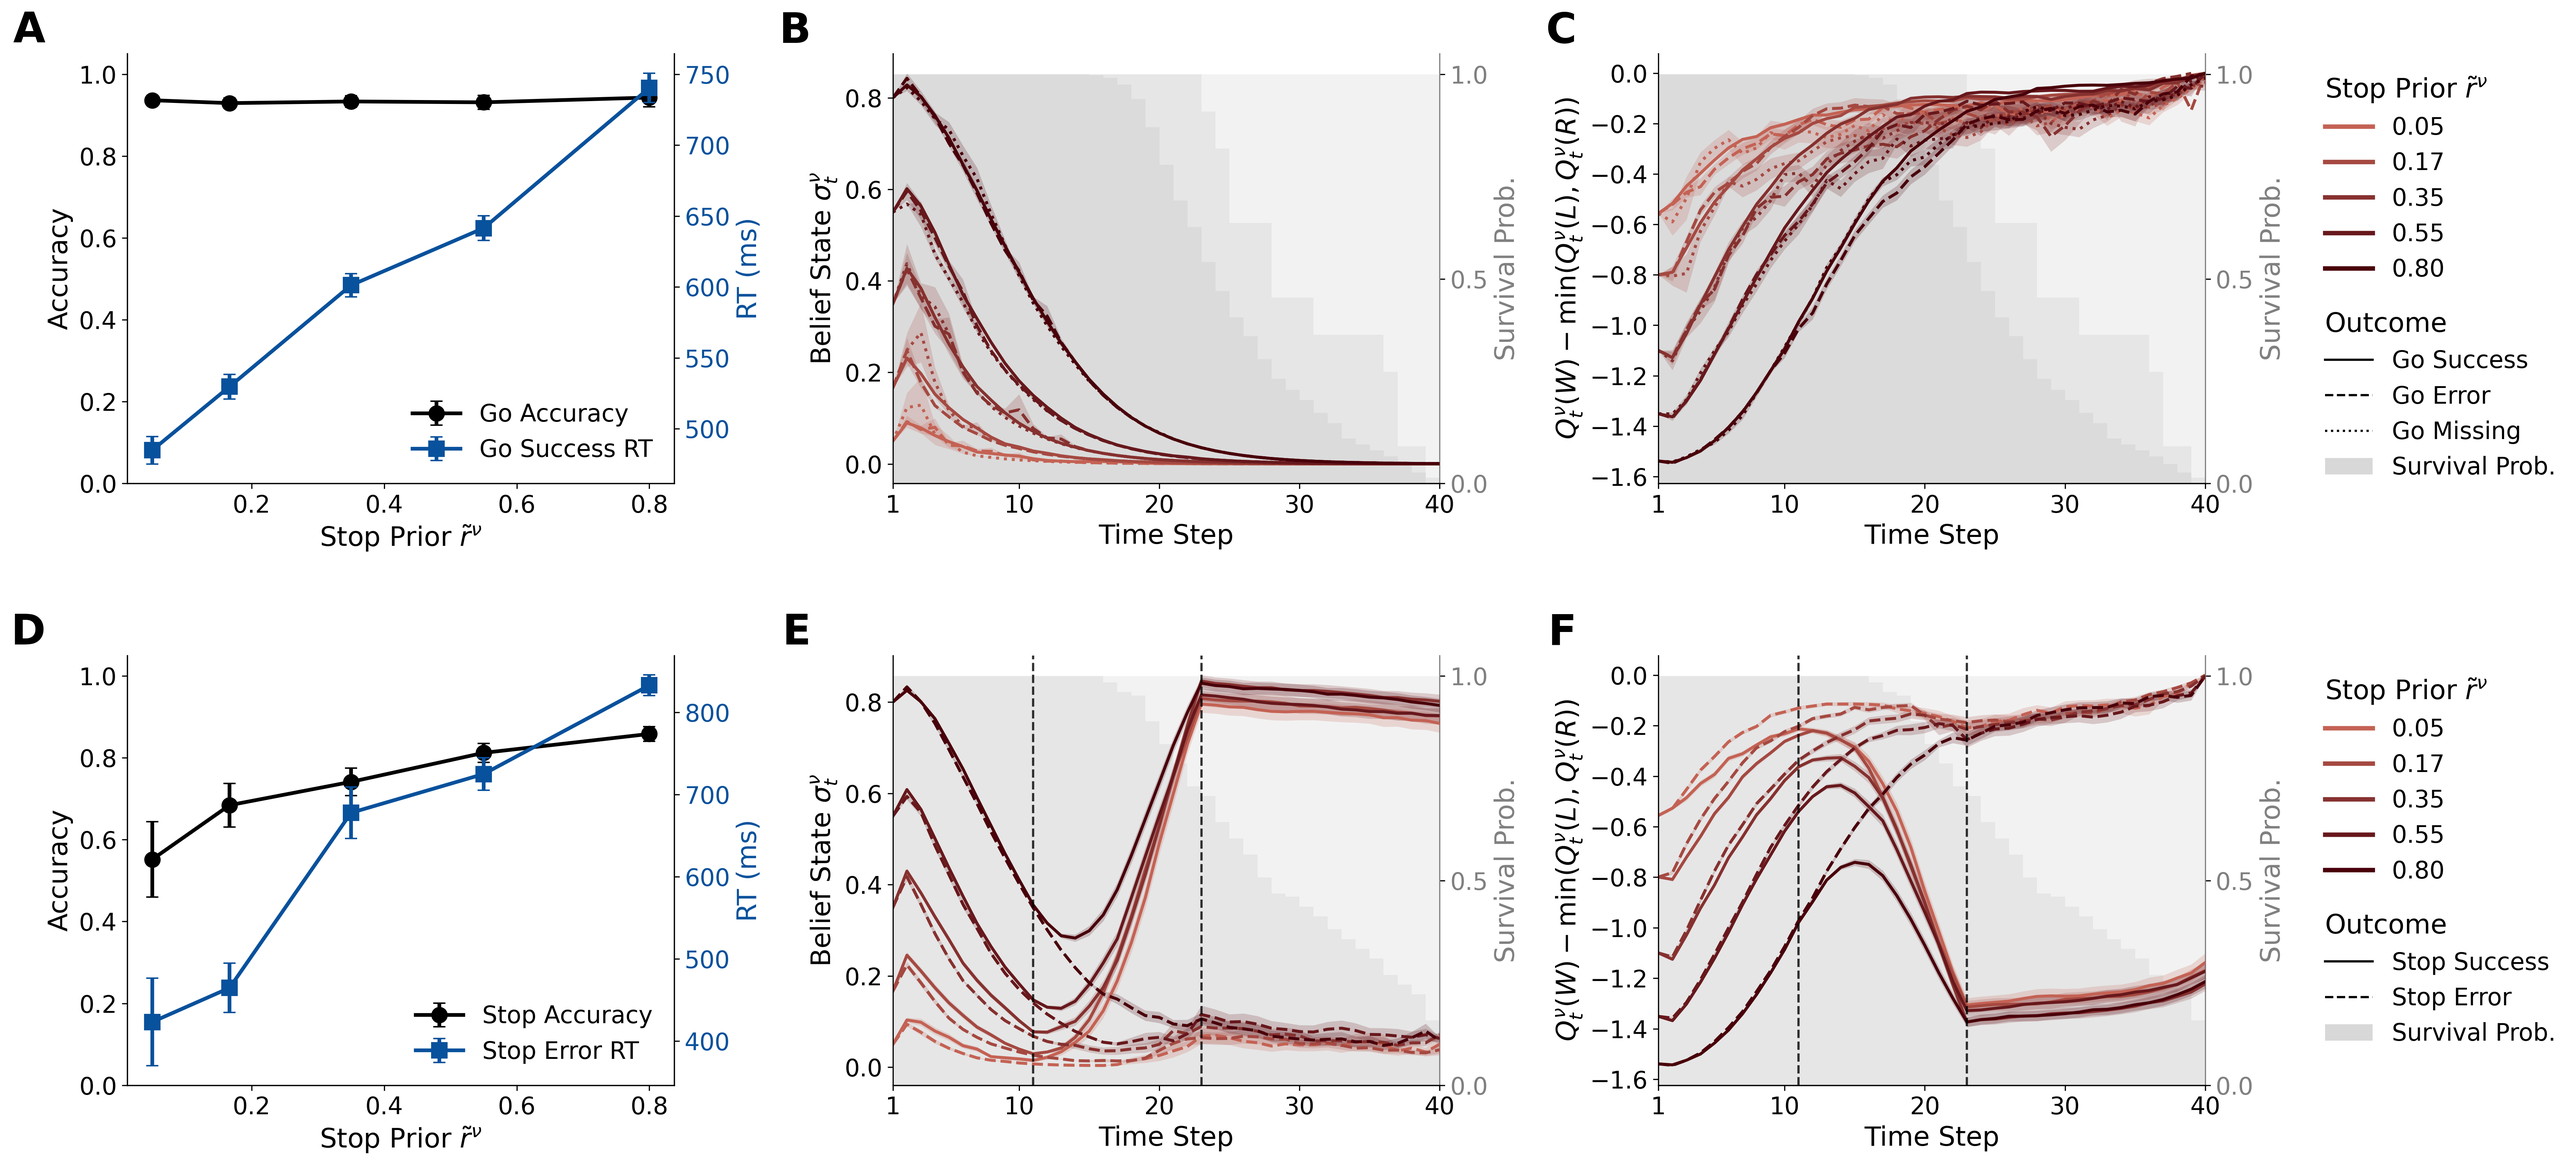
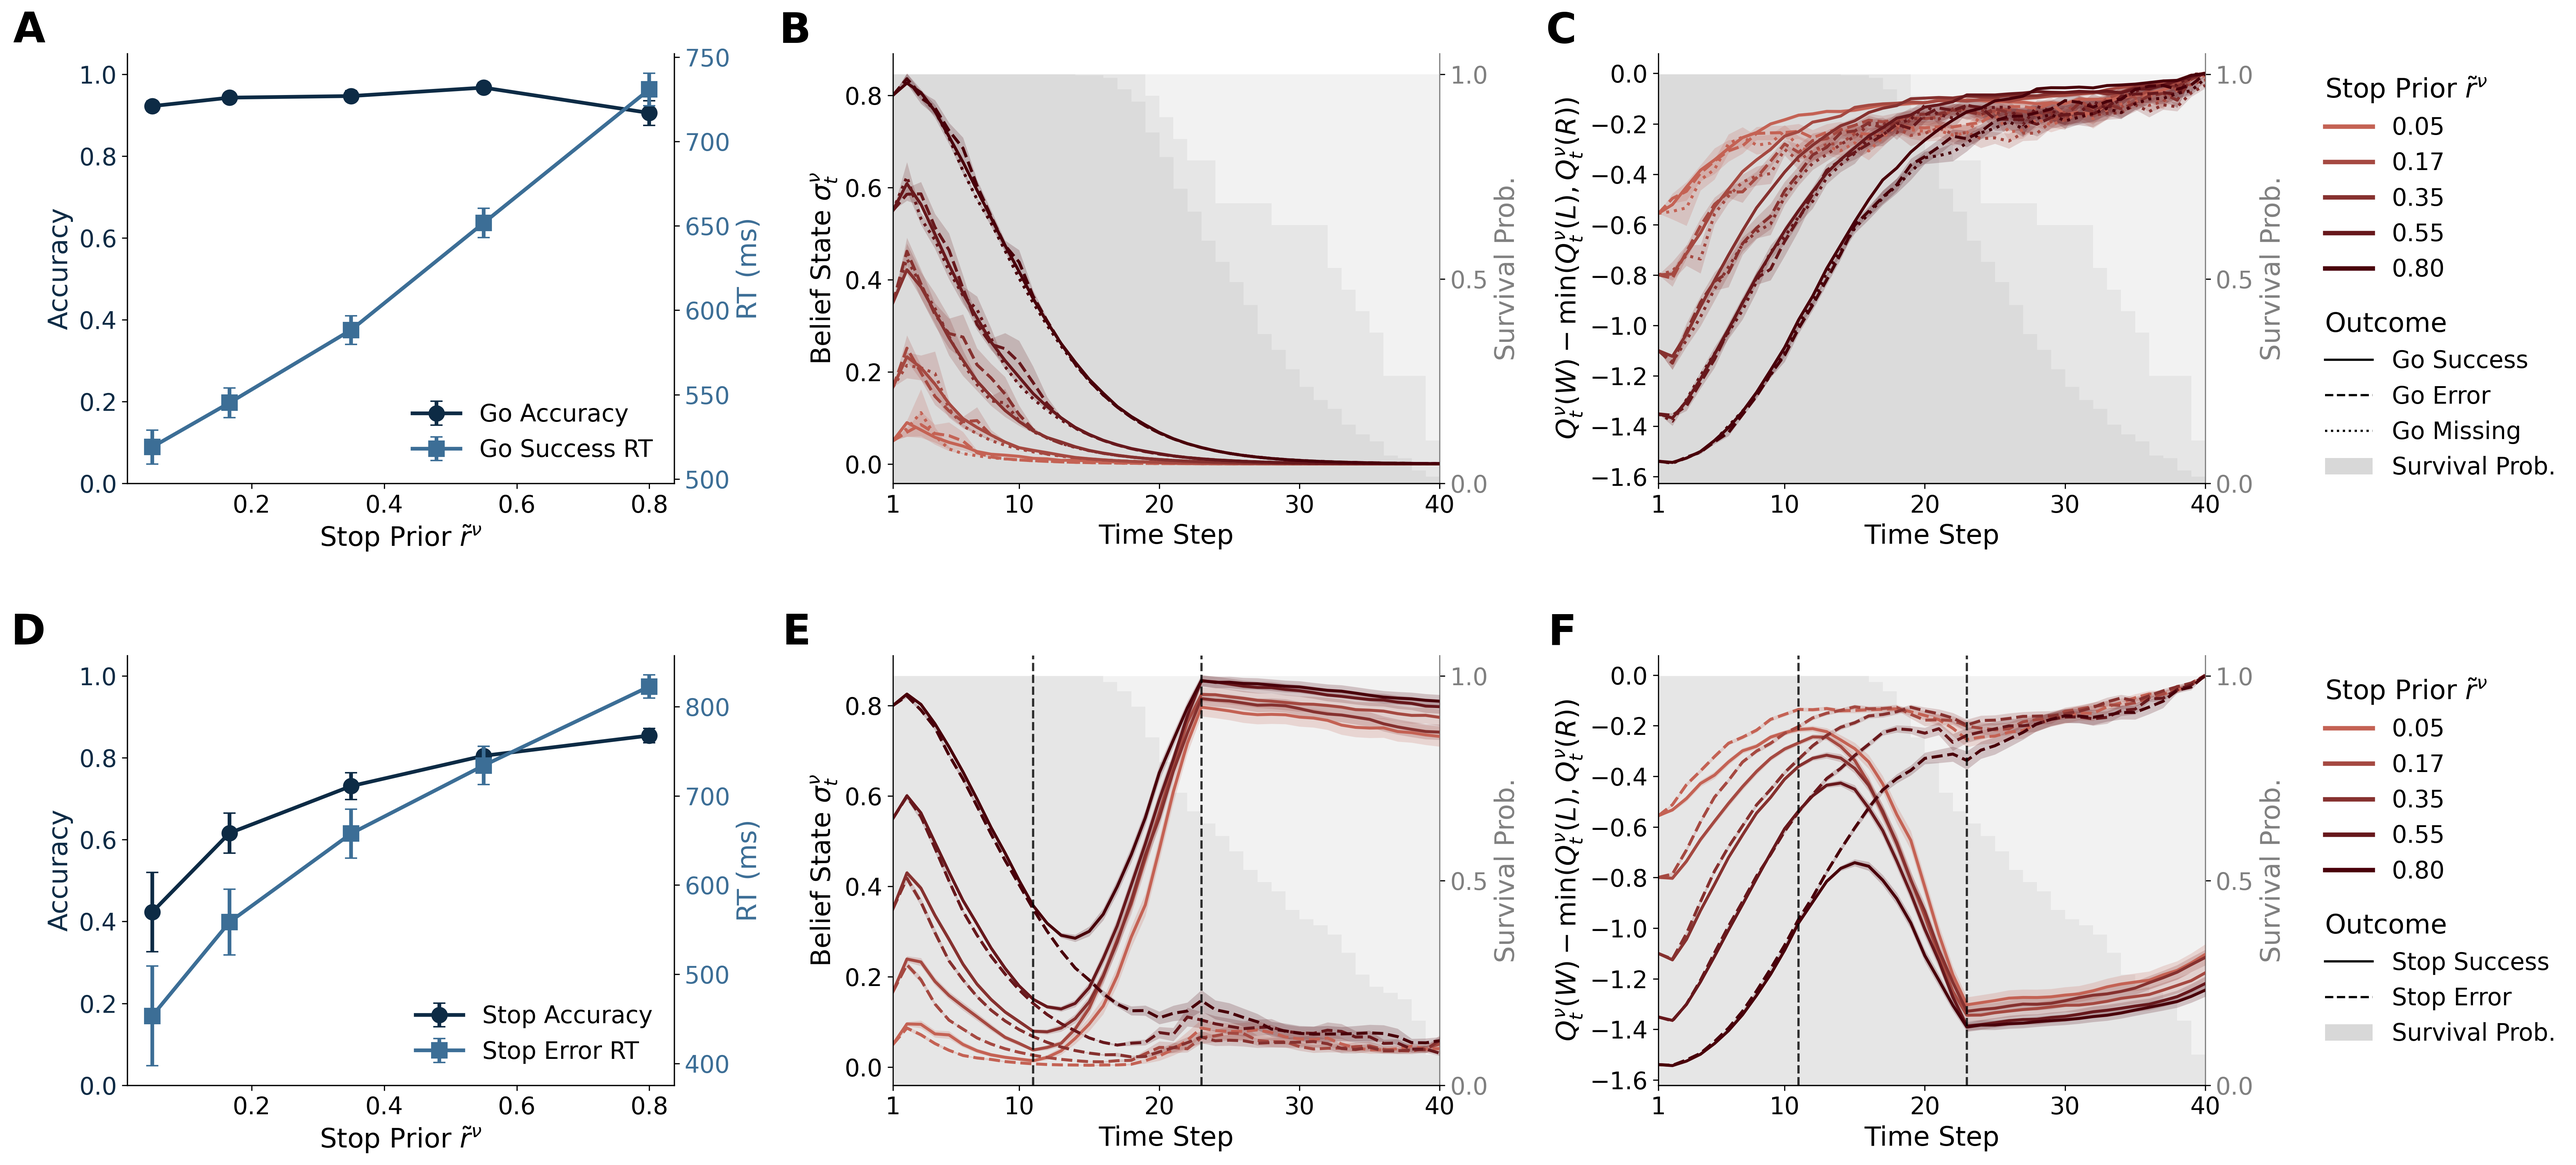
update

diff --git a/core/plotting.py b/core/plotting.py
@@ -737,8 +737,8 @@ def plot_composite_2x3(
         "shadow_color": "gray"
     }
 
-    color_acc = 'black'
-    color_rt  = '#08519c'
+    color_acc = '#0d2b45'
+    color_rt  = '#3c6e96'
     
     cmap_warm = LinearSegmentedColormap.from_list("journal_warm", ["#C46254", "#49000a"])
     rate_colors = [cmap_warm(i) for i in np.linspace(0.0, 1.0, len(rates))]
